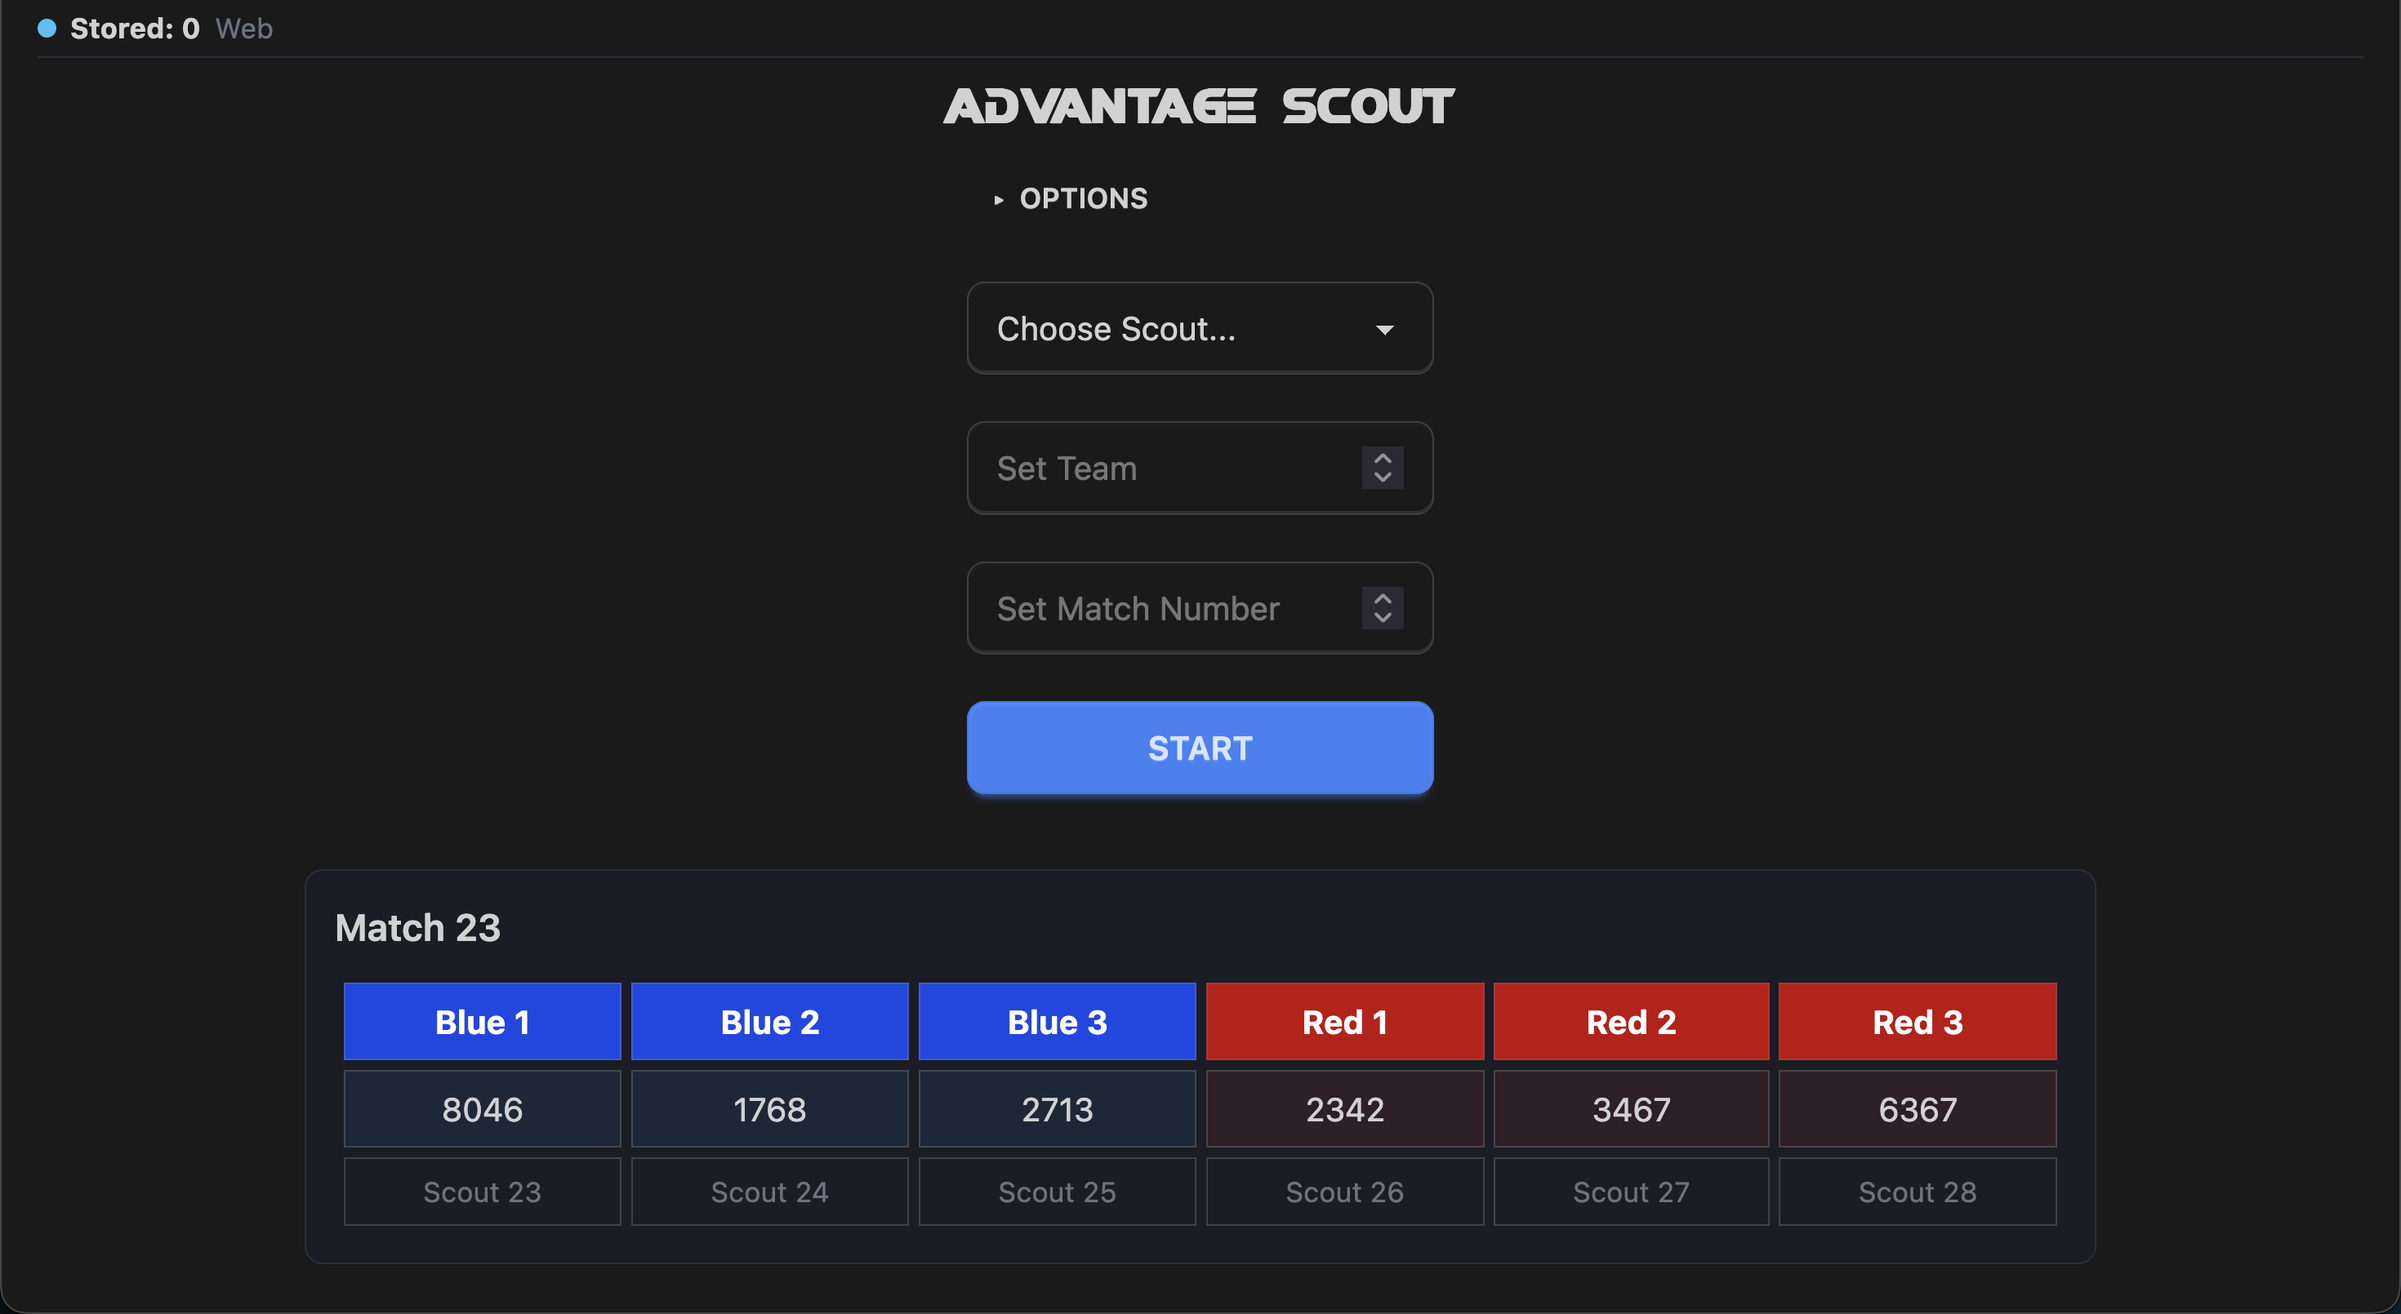
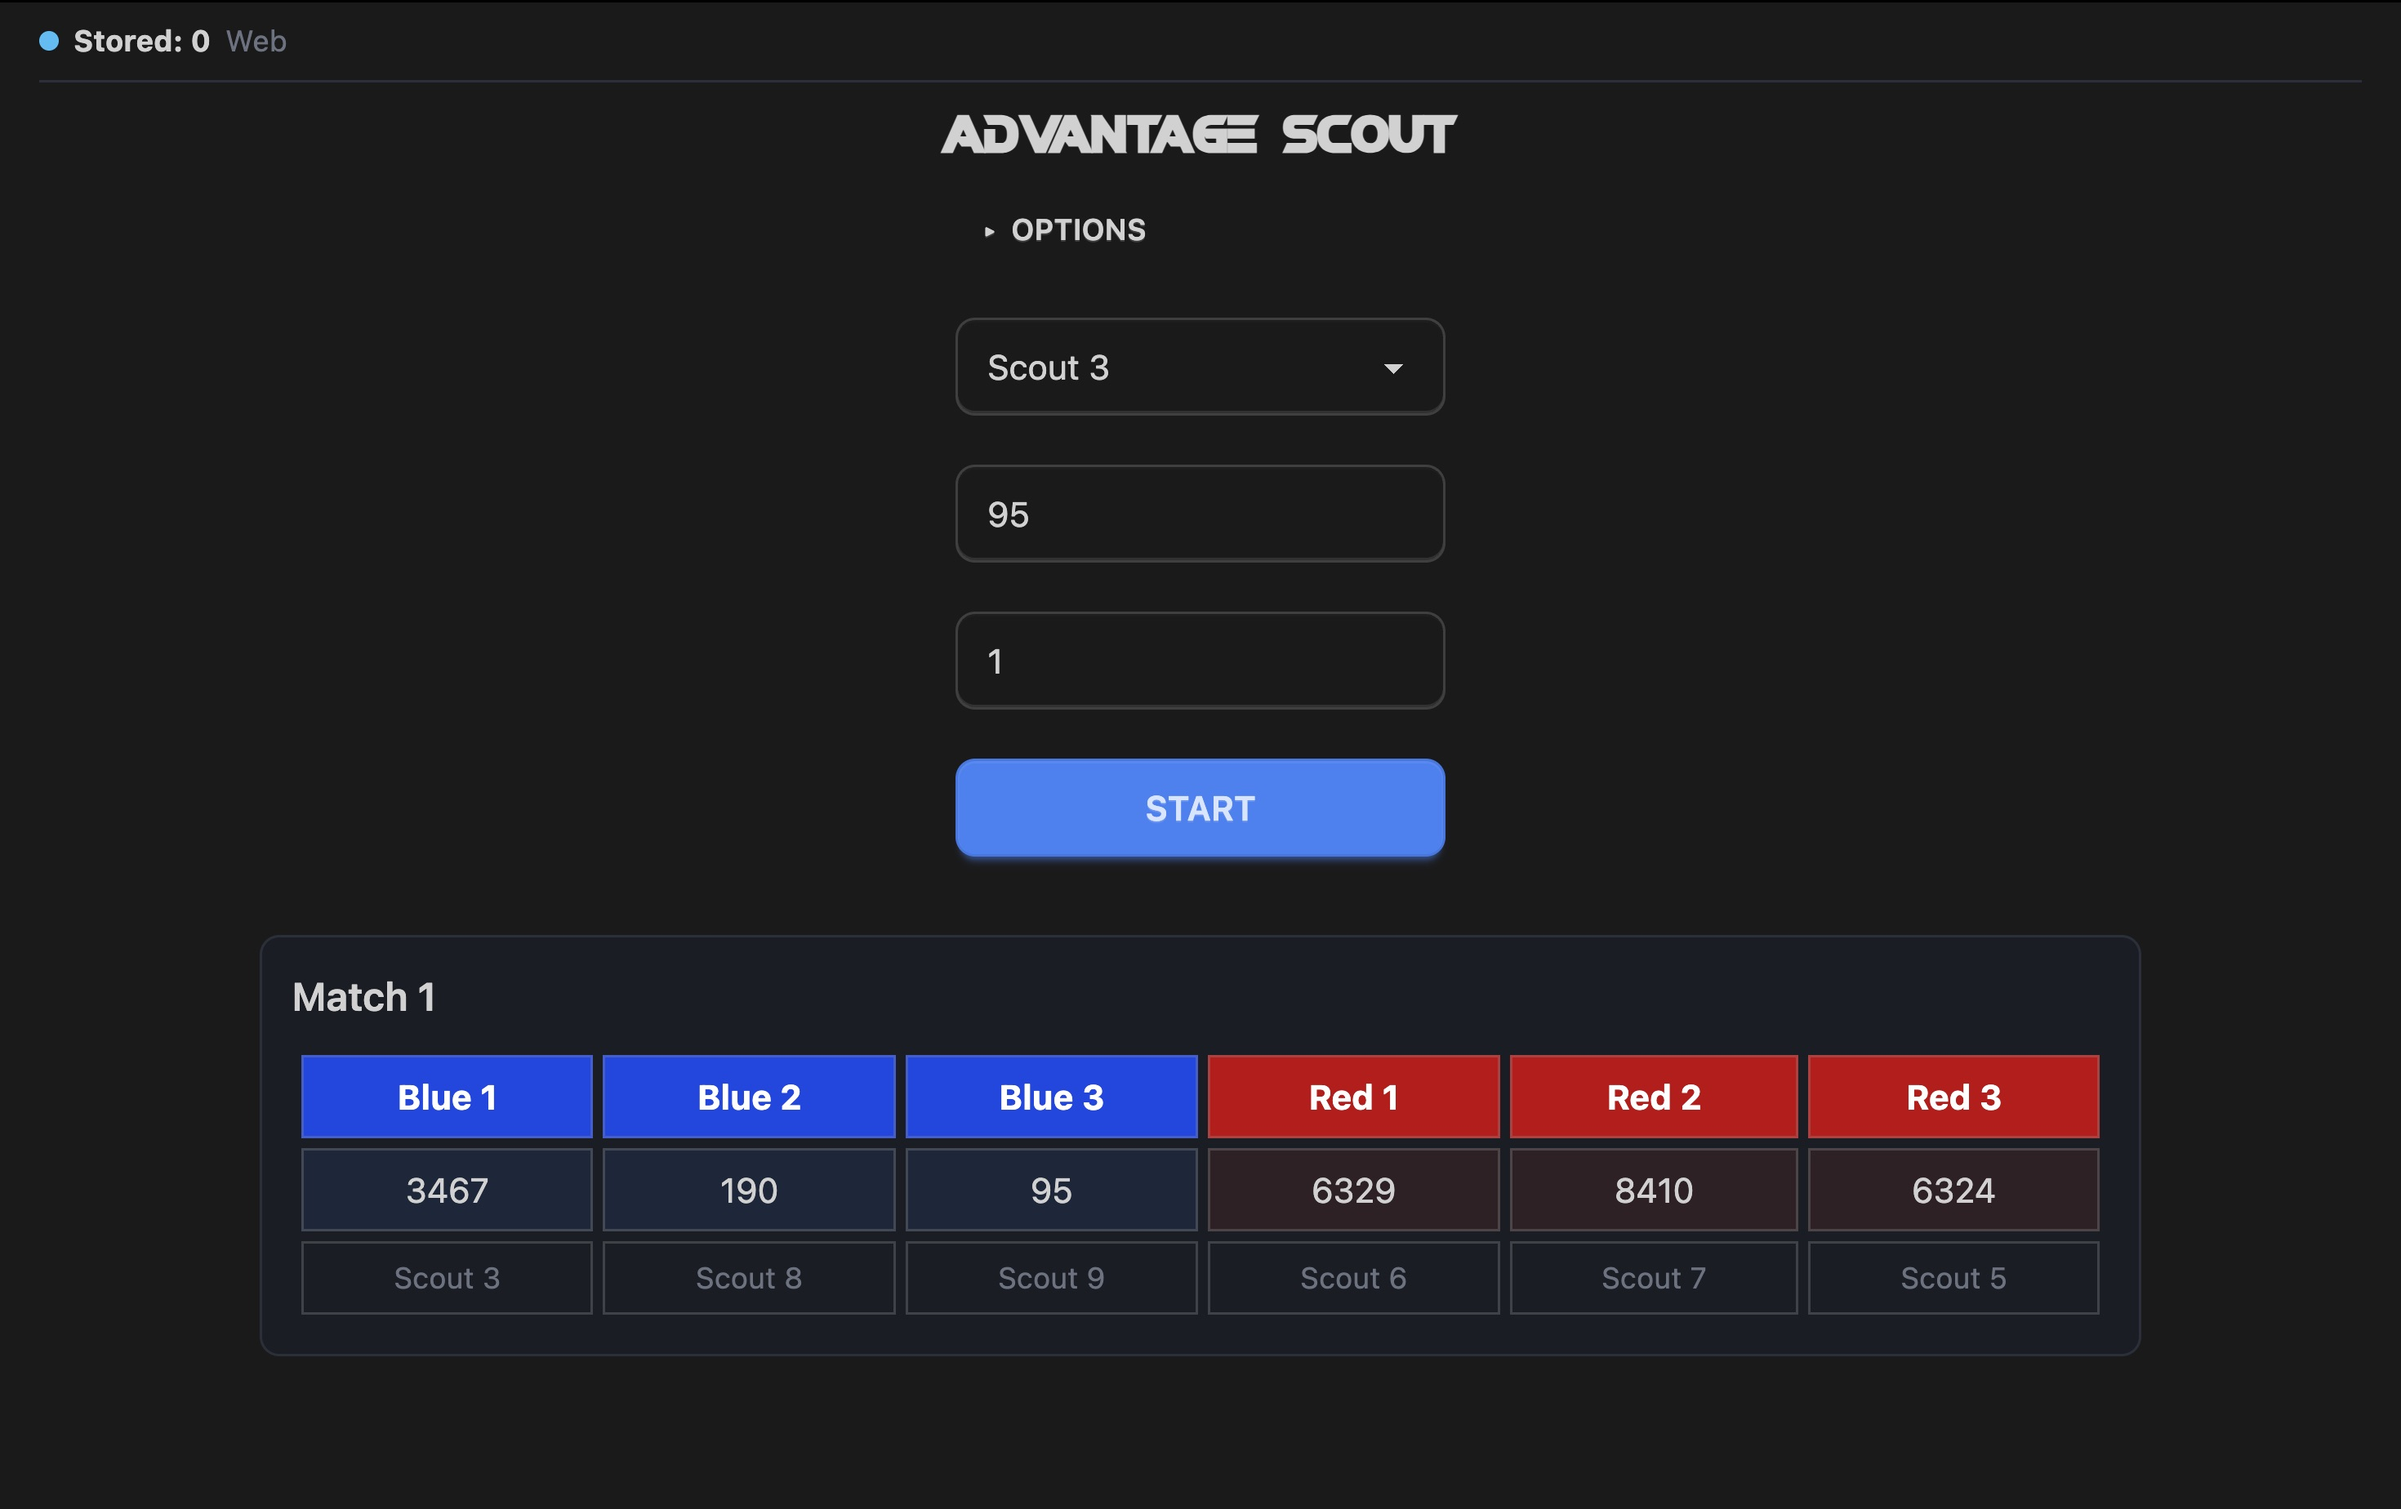
Update README

diff --git a/README.md b/README.md
@@ -1,6 +1,6 @@
 # Advantage Scout 2
 
-Advantage Scout 2 is the new major version of our electronic scouting system [Advantage Scout](https://github.com/Mechanical-Advantage/AdvantageScout). The app consists of a Svelte5 frontend with a python FastAPI server. Bluetooth Low-Energy is used to communicate with the Android tablets. In this version, the scouting laptop acts as the peripheral that the tablets (clients) connect to.
+Advantage Scout 2 is the new major version of our electronic scouting system [Advantage Scout](https://github.com/Mechanical-Advantage/AdvantageScout). The app consists of a Svelte5 frontend with a Python FastAPI server. Bluetooth Low-Energy is used to communicate with the Android tablets. In this version, the scouting laptop acts as the peripheral that the tablets (clients) connect to.
 
 ![Banner](/banner.jpg)
 
@@ -14,58 +14,53 @@ Advantage Scout 2 is the new major version of our electronic scouting system [Ad
 
 After cloning this repository, run the setup script under `scripts/`. Use the setup `.sh` for macOS/Linux, or the `.bat` file for Windows. Alternatively, complete the following steps to have a working environment for the app.
 
-After seting up the project, obtain the `.env` for the necessary keys to run the full app.
+After setting up the project, obtain the `.env` for the necessary keys to run the full app.
 
-### Linux/macOS Setup
+### Setup
 
-```bash
-# Install JS dependencies
-npm install
-
-# Create a python virtual environment
-# Use python3 if on macOS
-python -m venv .venv
-
-# Activate the environment
-source .venv/bin/activate
-
-# Install Python requirements
-pip install -r requirements/requirements-[your-os].txt
-
-# Create the database directory
-mkdir data
-
-# Initialize the global database
-python server/global_init.py
-
-# Generate the Match and other databases by starting up the server
-python server/http_server.py --regen-db
-```
-
-### Windows Setup
-
-```powershell
-# Install JS dependencies
-npm install
-
-# Create a Python virtual environment
-python -m venv .venv
-
-# Activate the environment (PowerShell)
-.\.venv\Scripts\Activate.ps1
-
-# Install Python requirements
-pip install -r requirements/requirements-windows.txt
-
-# Create the database directory
-mkdir data
-
-# Initialize the global database
-python server/global_init.py
-
-# Generate the Match and other databases by starting up the server
-python server/http_server.py --regen-db
-```
+1. Install JS dependencies
+   ```bash
+   npm install
+   ```
+2. Create a python virtual environment (use python3 if on macOS)
+   ```bash
+   python -m venv .venv
+   ```
+3. Activate the environment
+   - Linux/macOS
+   ```bash
+   source .venv/bin/activate
+   ```
+   - Windows
+   ```powershell
+   .\.venv\Scripts\Activate.ps1
+   ```
+4. Install Python requirements
+   - Linux
+   ```bash
+   pip install -r requirements/requirements-linux.txt
+   ```
+   - macOS
+   ```bash
+   pip install -r requirements/requirements-mac.txt
+   ```
+   - Windows
+   ```powershell
+   pip install -r requirements/requirements-windows.txt
+   ```
+5. Initialize server
+   - Create the database directory
+   ```bash
+   mkdir data
+   ```
+   - Initialize the global database
+   ```bash
+   python server/global_init.py
+   ```
+   - Generate the Match and other databases by starting up the server
+   ```bash
+   python server/http_server.py --regen-db
+   ```
 
 ## Running the Server
 
